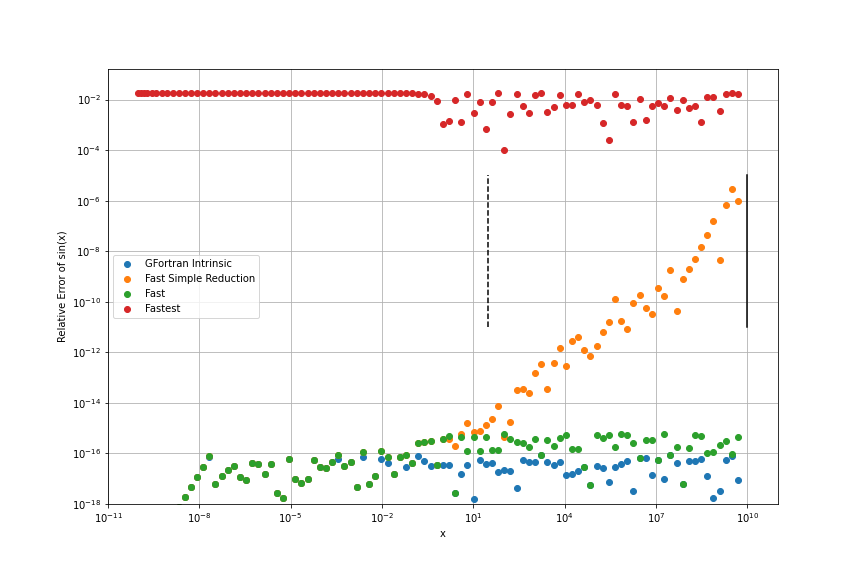
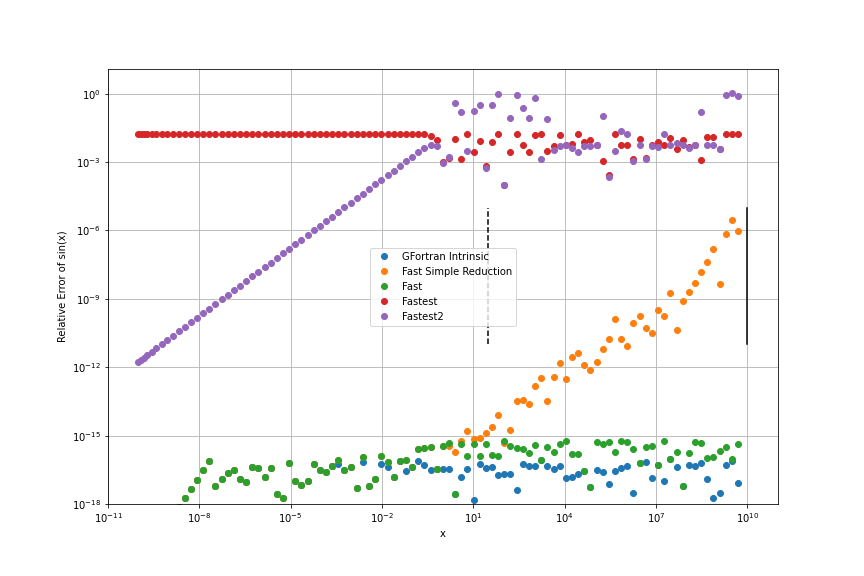
Update the accuracy plot

diff --git a/blog/Accuracy.md b/blog/Accuracy.md
@@ -25,7 +25,8 @@ ctx.dps = 50
 D = loadtxt("accuracy_all.txt")
 x = D[:,0]
 sin_pos = D[:,1:5]
-sin_neg = D[:,5:]
+sin_neg = D[:,5:9]
+sin_fastest2 = D[:,9]
 
 @vectorize
 def arb_sin(x): return arb(x).sin()
@@ -41,6 +42,7 @@ for i in range(4):
 assert abs(sin_pos-(-sin_neg)).max() == 0.0
 # we do not plot the error of sin(-x) below, since it overlaps with sin(x)
 
+err_fastest2 = abs(sin_fastest2 - arb_sin(x))
 
 figure(figsize=(12, 8))
 loglog(x, err_pos[:,3], "o", label="GFortran Intrinsic")
@@ -51,6 +53,7 @@ loglog(x, err_pos[:,1], "o", label="Fast")
 #loglog(x, err_neg[:,1], "y.", label="Fast (neg)")
 loglog(x, err_pos[:,2], "o", label="Fastest")
 #loglog(x, err_neg[:,2], "y.", label="Fastest (neg)")
+loglog(x, err_fastest2[:], "o", label="Fastest2")
 legend()
 xlabel("x")
 ylabel("Relative Error of sin(x)")
